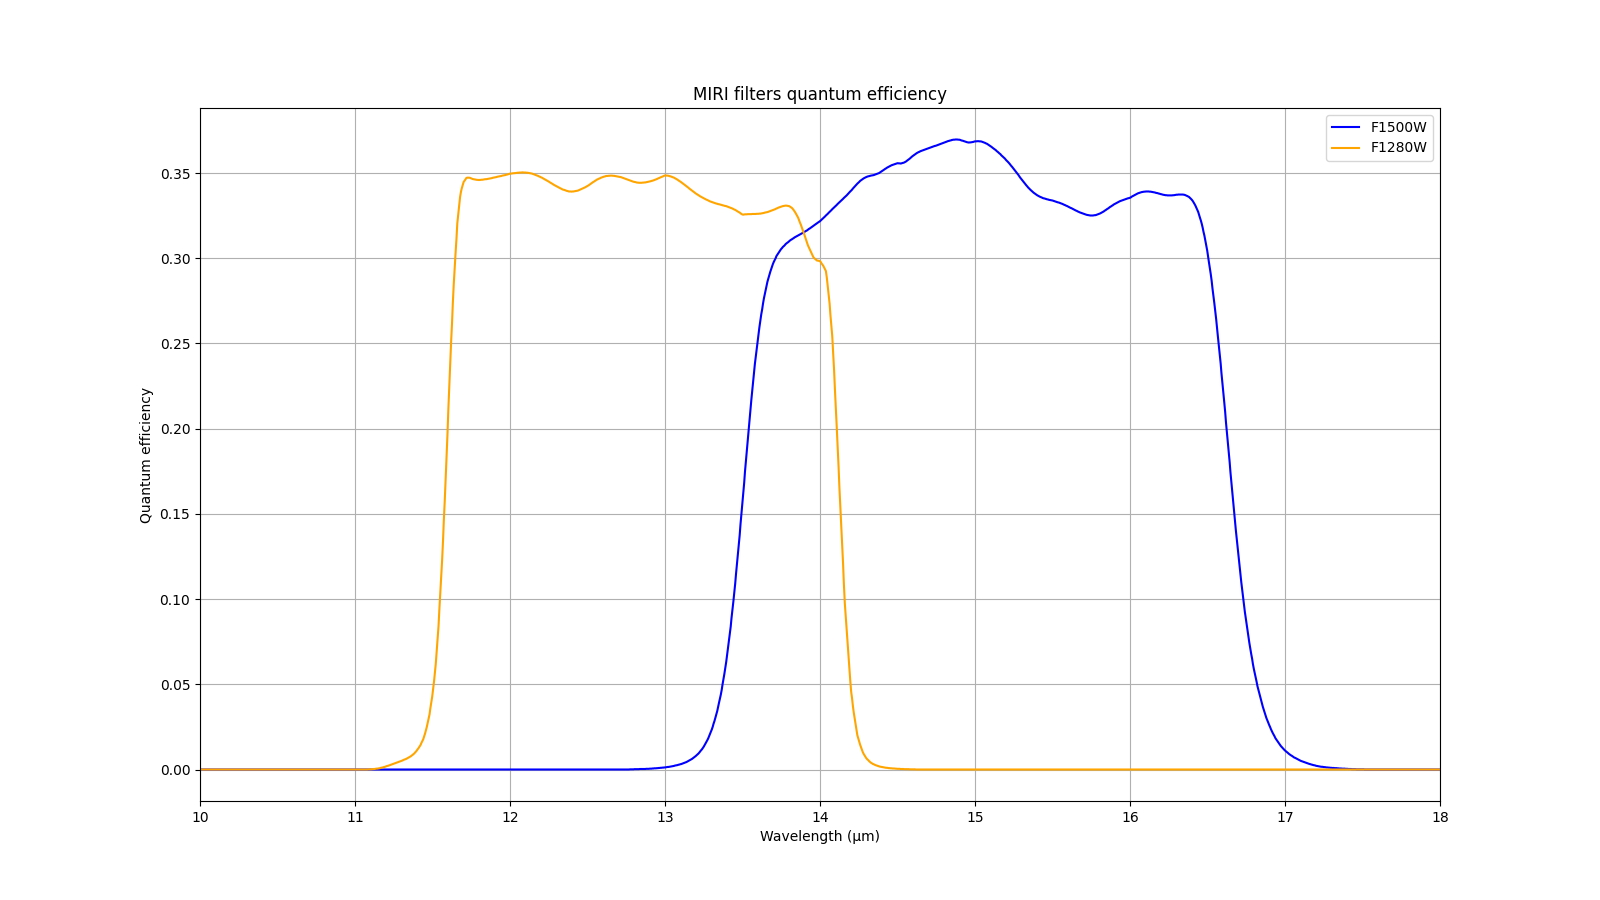
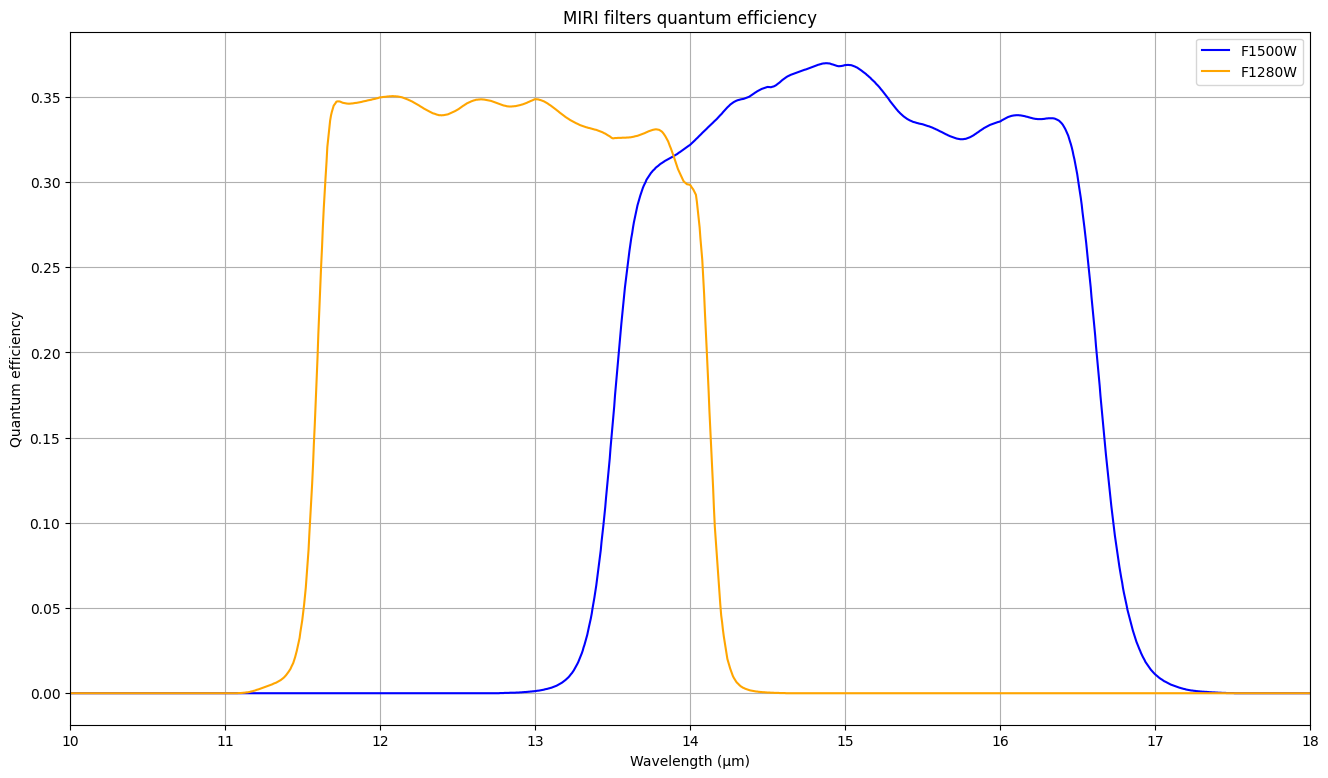
Added computation of the star flux with the SPHINX spectrum and MIRI filters

diff --git a/Phase_curve_wavelength.py b/Phase_curve_wavelength.py
@@ -8,7 +8,10 @@
 import numpy as np
 import matplotlib.pyplot as plt
 from scipy.integrate import quad
+from scipy.interpolate import interp1d
 from scipy.constants import c, h, k, sigma
+from tqdm import tqdm
+import time
 
 from Orbital_motion import compute_true_anomaly
 from Transits import eclipse
@@ -178,7 +181,7 @@ def conversion_mJy_to_IS(F_mJy, wavelength, dist, R):
     :param F_mJy: the flux density (in mJy)
     :type F_mJy: float
 
-    :param wavelength: the wavelength (in m)
+    :param wavelength: the wavelength (in m)flux_T1_sphinx_cut *= QE
     :type wavelength: float
 
     :param dist: the distance of the object (in m)
@@ -223,6 +226,182 @@ def flux_Wm2(F_mJy, lambda_min, lambda_max, dist, R):
 
     return F
 
+def filter(filter_name):
+    """
+    Returns the filter band of the specified filter.
+
+    :param filter_name: the name of the filter
+    :type filter_name: str
+
+    :return: filter_band
+    :rtype: np.ndarray
+    """
+
+    if filter_name == "F560W":
+        filter_band = np.loadtxt("miri_filter.csv", delimiter=',', unpack=True, skiprows=1, usecols=(0, 1))
+
+    elif filter_name == "F770W":
+        filter_band = np.loadtxt("miri_filter.csv", delimiter=',', unpack=True, skiprows=1, usecols=(0, 2))
+
+    elif filter_name == "F1000W":
+        filter_band = np.loadtxt("miri_filter.csv", delimiter=',', unpack=True, skiprows=1, usecols=(0, 3))
+
+    elif filter_name == "F1130W":
+        filter_band = np.loadtxt("miri_filter.csv", delimiter=',', unpack=True, skiprows=1, usecols=(0, 4))
+
+    elif filter_name == "F1280W":
+        filter_band = np.loadtxt("miri_filter.csv", delimiter=',', unpack=True, skiprows=1, usecols=(0, 5))
+
+    elif filter_name == "F1500W":
+        filter_band = np.loadtxt("miri_filter.csv", delimiter=',', unpack=True, skiprows=1, usecols=(0, 6))
+
+    elif filter_name == "F1800W":
+        filter_band = np.loadtxt("miri_filter.csv", delimiter=',', unpack=True, skiprows=1, usecols=(0, 7))
+
+    elif filter_name == "F2100W":
+        filter_band = np.loadtxt("miri_filter.csv", delimiter=',', unpack=True, skiprows=1, usecols=(0, 8))
+
+    elif filter_name == "F2550W":
+        filter_band = np.loadtxt("miri_filter.csv", delimiter=',', unpack=True, skiprows=1, usecols=(0, 9))
+
+
+    return filter_band
+
+
+def quantum_efficiency(filter_name, wavelength):
+    """
+    Returns the quantum efficiency of the specified filter at the given wavelength.
+
+    :param filter_name: the name of the filter
+    :type filter_name: str
+
+    :param wavelength: the wavelength (in m)
+    :type wavelength: float
+
+    :return: QE
+    :rtype: float
+    """
+
+    filter_band = filter(filter_name)
+    wavelengths = filter_band[0,:]*1e-6 # Convert to m
+
+    # lambda_min = np.min(wavelengths)
+    # lambda_max = np.max(wavelengths)
+
+    # i = 0
+    # while wavelengths_T1_sphinx[i] < lambda_min:
+    #     i += 1
+    # i_min = i
+    # while wavelengths_T1_sphinx[i] < lambda_max:
+    #     i += 1
+    # i_max = i
+
+    # wavelengths_T1_sphinx_cut = wavelengths_T1_sphinx[i_min:i_max]
+
+    # QE = np.interp(wavelength, wavelengths, filter_band[1,:]/np.max(filter_band[1,:]))
+
+    QE = np.interp(wavelength, wavelengths, filter_band[1,:])
+
+    # QE = np.interp(wavelengths_T1_sphinx_cut, wavelengths, filter_band[1,:])
+
+    return QE
+
+
+def flux_star_miri(filter_name):
+    """
+    Returns the flux of the star in the specified filter band.
+
+    :param filter_name: the name of the filter
+    :type filter_name: str
+
+    :return: F_star
+    :rtype: float
+    """
+
+    filter_band = filter(filter_name)
+    wavelengths = filter_band[0,:]*1e-6 # Convert to m
+
+    # print(np.min(wavelengths), np.max(wavelengths))
+    # print(wavelengths.shape)
+
+    # print(np.min(wavelengths_T1_sphinx), np.max(wavelengths_T1_sphinx))
+    # print(wavelengths_T1_sphinx.shape)
+
+    lambda_min = np.min(wavelengths)
+    lambda_max = np.max(wavelengths)
+
+    i = 0
+    while wavelengths_T1_sphinx[i] < lambda_min:
+        i += 1
+    i_min = i
+    while wavelengths_T1_sphinx[i] < lambda_max:
+        i += 1
+    i_max = i
+
+    flux_T1_sphinx_cut = flux_T1_sphinx[i_min:i_max]
+    wavelengths_T1_sphinx_cut = wavelengths_T1_sphinx[i_min:i_max]
+    flux_interp = interp1d(wavelengths_T1_sphinx_cut, flux_T1_sphinx_cut, kind='linear', bounds_error=False, fill_value=0)
+
+    # mid_point = (lambda_min + lambda_max) / 2
+    # F_star_1 = quad(lambda l: quantum_efficiency(filter_name, l) * flux_interp(l), lambda_min, mid_point)[0]
+    # F_star_2 = quad(lambda l: quantum_efficiency(filter_name, l) * flux_interp(l), mid_point, lambda_max)[0]
+    # F_star = F_star_1 + F_star_2
+
+    # print(flux_T1_sphinx.shape)
+
+    # flux_T1_sphinx_interp = np.interp(wavelengths, wavelengths_T1_sphinx, flux_T1_sphinx)
+
+    # print(wavelengths.shape)
+    # print(flux_T1_sphinx_interp.shape)
+
+    # F_star = quad(lambda l: quantum_efficiency(filter_name, l)*flux_interp(l), lambda_min, lambda_max, limit=100)[0]
+
+    # F_star = quad(lambda l: Planck_law(l, T_eff_star)*quantum_efficiency(filter_name, l), wavelengths[0], wavelengths[-1])[0]
+    # F_star = np.trapz(flux_T1_sphinx_interp*quantum_efficiency(filter_name,wavelengths), wavelengths)
+    
+    F_star = 0
+    for l in tqdm(wavelengths_T1_sphinx_cut):
+        time.sleep(0.1)
+        QE = quantum_efficiency(filter_name, l)
+        F_star += flux_interp(l) * QE
+
+    F_star *= (wavelengths_T1_sphinx_cut[1]-wavelengths_T1_sphinx_cut[0])
+
+    # F_star = np.sum(flux_T1_sphinx_cut*quantum_efficiency(filter_name))*(wavelengths_T1_sphinx[1]-wavelengths_T1_sphinx[0])
+
+    return F_star
+
+def flux_miri2(filter_name):
+    """
+    Returns the flux of the star in the specified filter band.
+
+    :param filter_name: the name of the filter
+    :type filter_name: str
+
+    :return: F_star
+    :rtype: float
+    """
+
+    filter_band = filter(filter_name)
+    wavelengths_filter = filter_band[0,:]*1e-6 # Convert to m
+    QE = filter_band[1,:]/np.max(filter_band[1,:])
+    
+    # The two arrays are not covering the same wevelength range so we need to deterùine the common range
+    lambda_min_common = np.max([np.min(wavelengths_T1_sphinx), np.min(wavelengths_filter)])
+    lambda_max_common = np.min([np.max(wavelengths_T1_sphinx), np.max(wavelengths_filter)])
+
+    mask_common = (wavelengths_T1_sphinx >= lambda_min_common) & (wavelengths_T1_sphinx <= lambda_max_common)
+    wavelengths_T1_sphinx_cut = wavelengths_T1_sphinx[mask_common]
+    flux_T1_sphinx_cut = flux_T1_sphinx[mask_common]
+
+    # Interpolate the QE values to match the wavelengths of the SPHINX spectrum
+    interp_filter = interp1d(wavelengths_filter, QE, bounds_error=False, fill_value=0)
+    QE_interp = interp_filter(wavelengths_T1_sphinx_cut)
+
+    F_star = np.trapz(flux_T1_sphinx_cut * QE_interp, wavelengths_T1_sphinx_cut)
+
+    return F_star
+
 
 def main():
 
@@ -230,25 +409,28 @@ def main():
 
     # Comparison of the SPHINX and black body spectra of TRAPPIST-1
 
-    flux_Planck = Planck_law(wavelengths_T1_sphinx, T_eff_star)
+    # flux_Planck = Planck_law(wavelengths_T1_sphinx, T_eff_star)
 
-    plt.figure(figsize=(16,9))
-    plt.plot(wavelengths_T1_sphinx, flux_T1_sphinx, label="SPHINX")
-    plt.plot(wavelengths_T1_sphinx, flux_Planck, label="Black body")
-    plt.xlabel(r"Wavelength ($m$)")
-    plt.ylabel(r"Flux ($W/m^2/m$)")
-    plt.xscale("log")
-    plt.yscale("log")
-    plt.xlim(np.min(wavelengths_T1_sphinx), np.max(wavelengths_T1_sphinx))
-    plt.title("Comparison of the SPHINX and black body spectra of TRAPPIST-1")
-    plt.legend()
-    plt.grid()
-    plt.show()
+    # plt.figure(figsize=(16,9))
+    # plt.plot(wavelengths_T1_sphinx, flux_T1_sphinx, label="SPHINX")
+    # plt.plot(wavelengths_T1_sphinx, flux_Planck, label="Black body")
+    # plt.xlabel(r"Wavelength ($m$)")
+    # plt.ylabel(r"Flux ($W/m^2/m$)")
+    # plt.xscale("log")
+    # plt.yscale("log")
+    # plt.xlim(np.min(wavelengths_T1_sphinx), np.max(wavelengths_T1_sphinx))
+    # plt.title("Comparison of the SPHINX and black body spectra of TRAPPIST-1")
+    # plt.legend()
+    # plt.grid()
+    # plt.show()
     
     # Define MIRI 15 micron filter band
 
     lambda_min_F1500 = 13e-6 # in m
     lambda_max_F1500 = 17.3e-6 # in m
+
+    # QE = quantum_efficiency("F1500W", 15e-6)
+    # print("QE = ", QE)
 
     #wavelengths = np.linspace(lambda_min, lambda_max, nb_points)
 
@@ -265,6 +447,12 @@ def main():
     #print("F_star_obs = ", F_star_obs_Wm2m, "W/m^2/m (seen from Earth)")
     F_star_obs_Wm2 = flux_Wm2(F_star_obs_mJy, lambda_min_F1500, lambda_max_F1500, dist_system, R_star)
     print("F_star_obs = ", F_star_obs_Wm2, "W/m^2 (seen from Earth)")
+
+    # F_star_sphinx = flux_star_miri("F1500W")
+    # print("F_star_sphinx = ", F_star_sphinx, "W/m^2")
+
+    F_star_sphinx = flux_miri2("F1500W")
+    print("F_star_sphinx = ", F_star_sphinx, "W/m^2")
 
 
     # For TRAPPIST-1 b

diff --git a/MIRI_filter.py b/MIRI_filter.py
@@ -20,5 +20,5 @@ plt.ylabel("Quantum efficiency")
 plt.legend()
 plt.title("MIRI filters quantum efficiency")
 plt.grid()
-# plt.savefig("MIRI_filters.png")
+# plt.savefig("MIRI_filters.png", bbox_inches='tight')
 plt.show()
